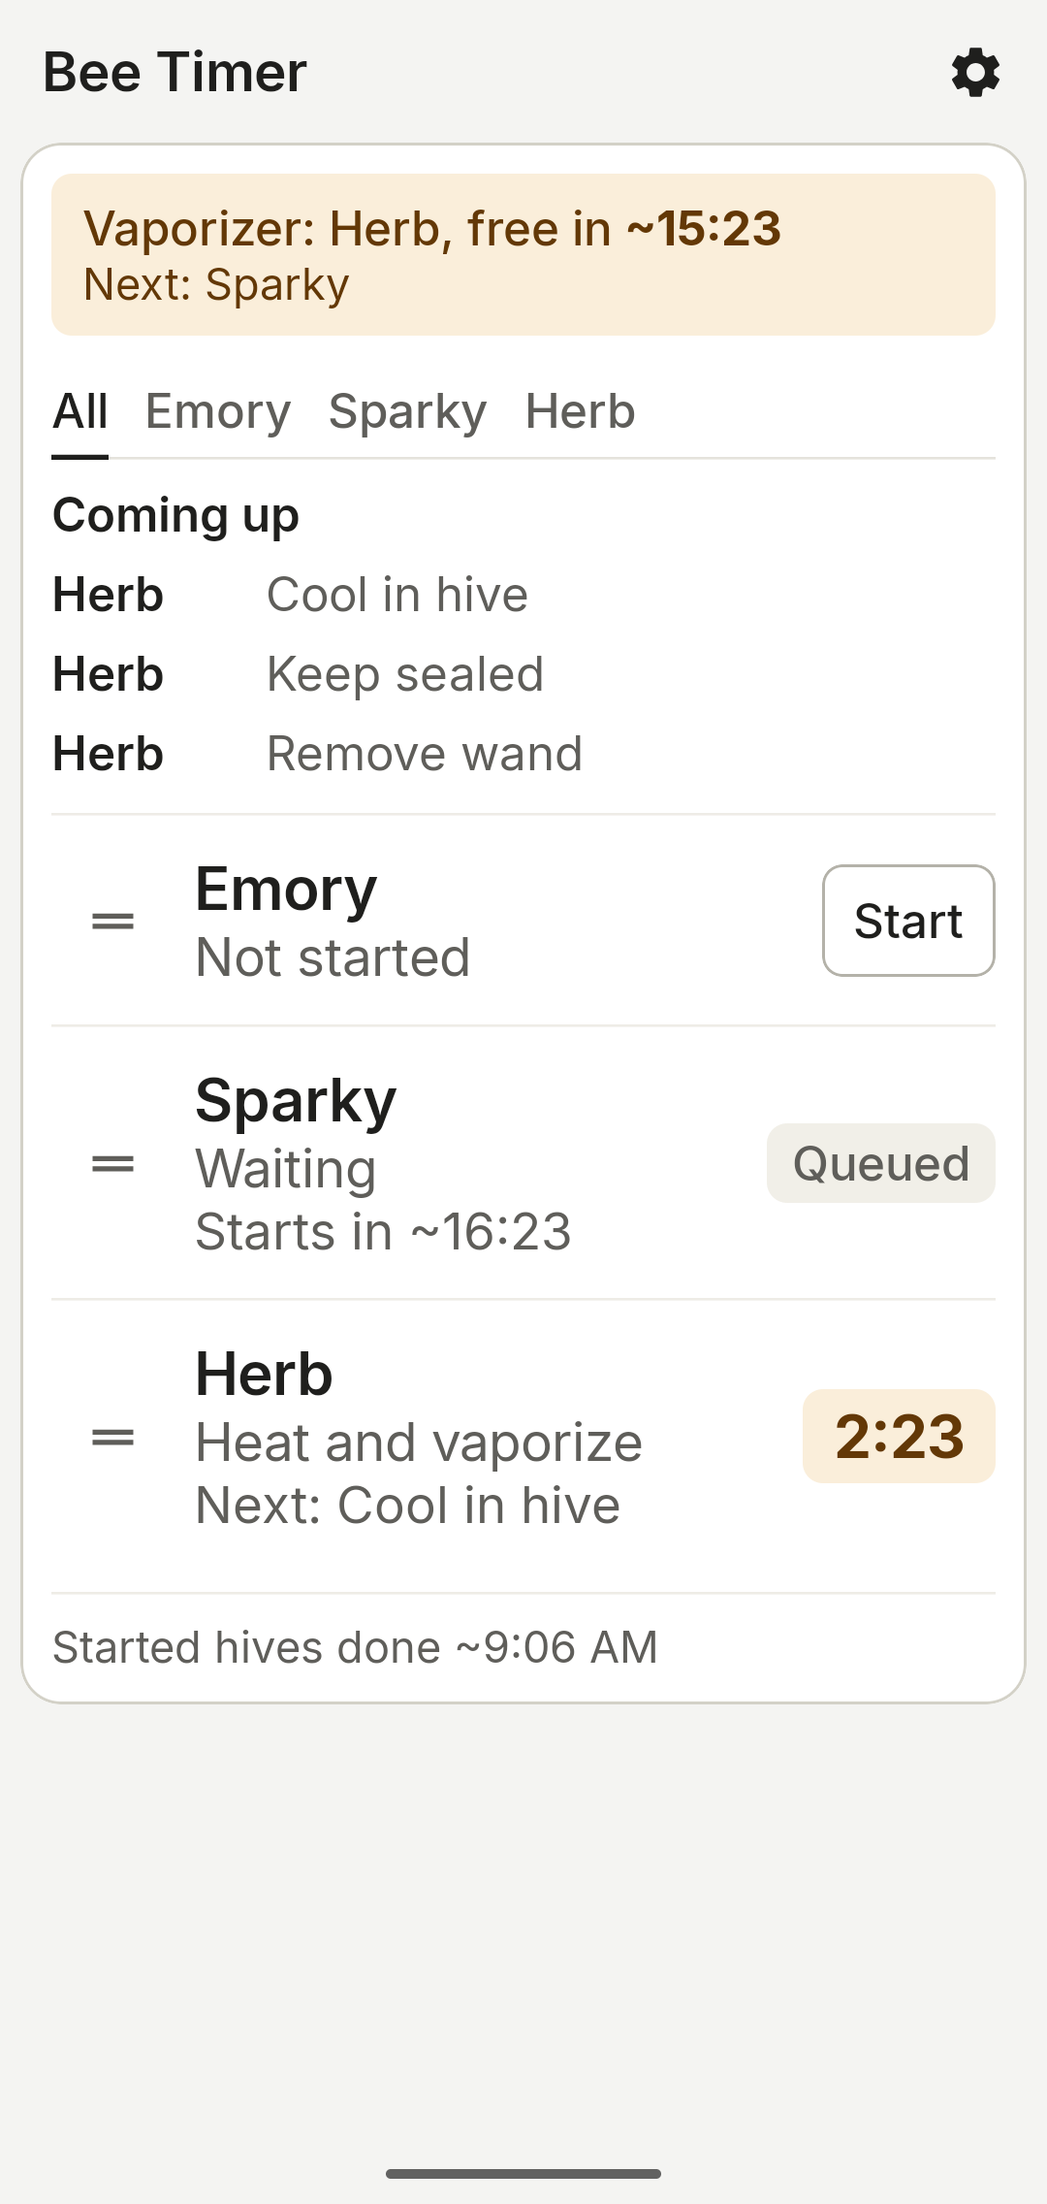
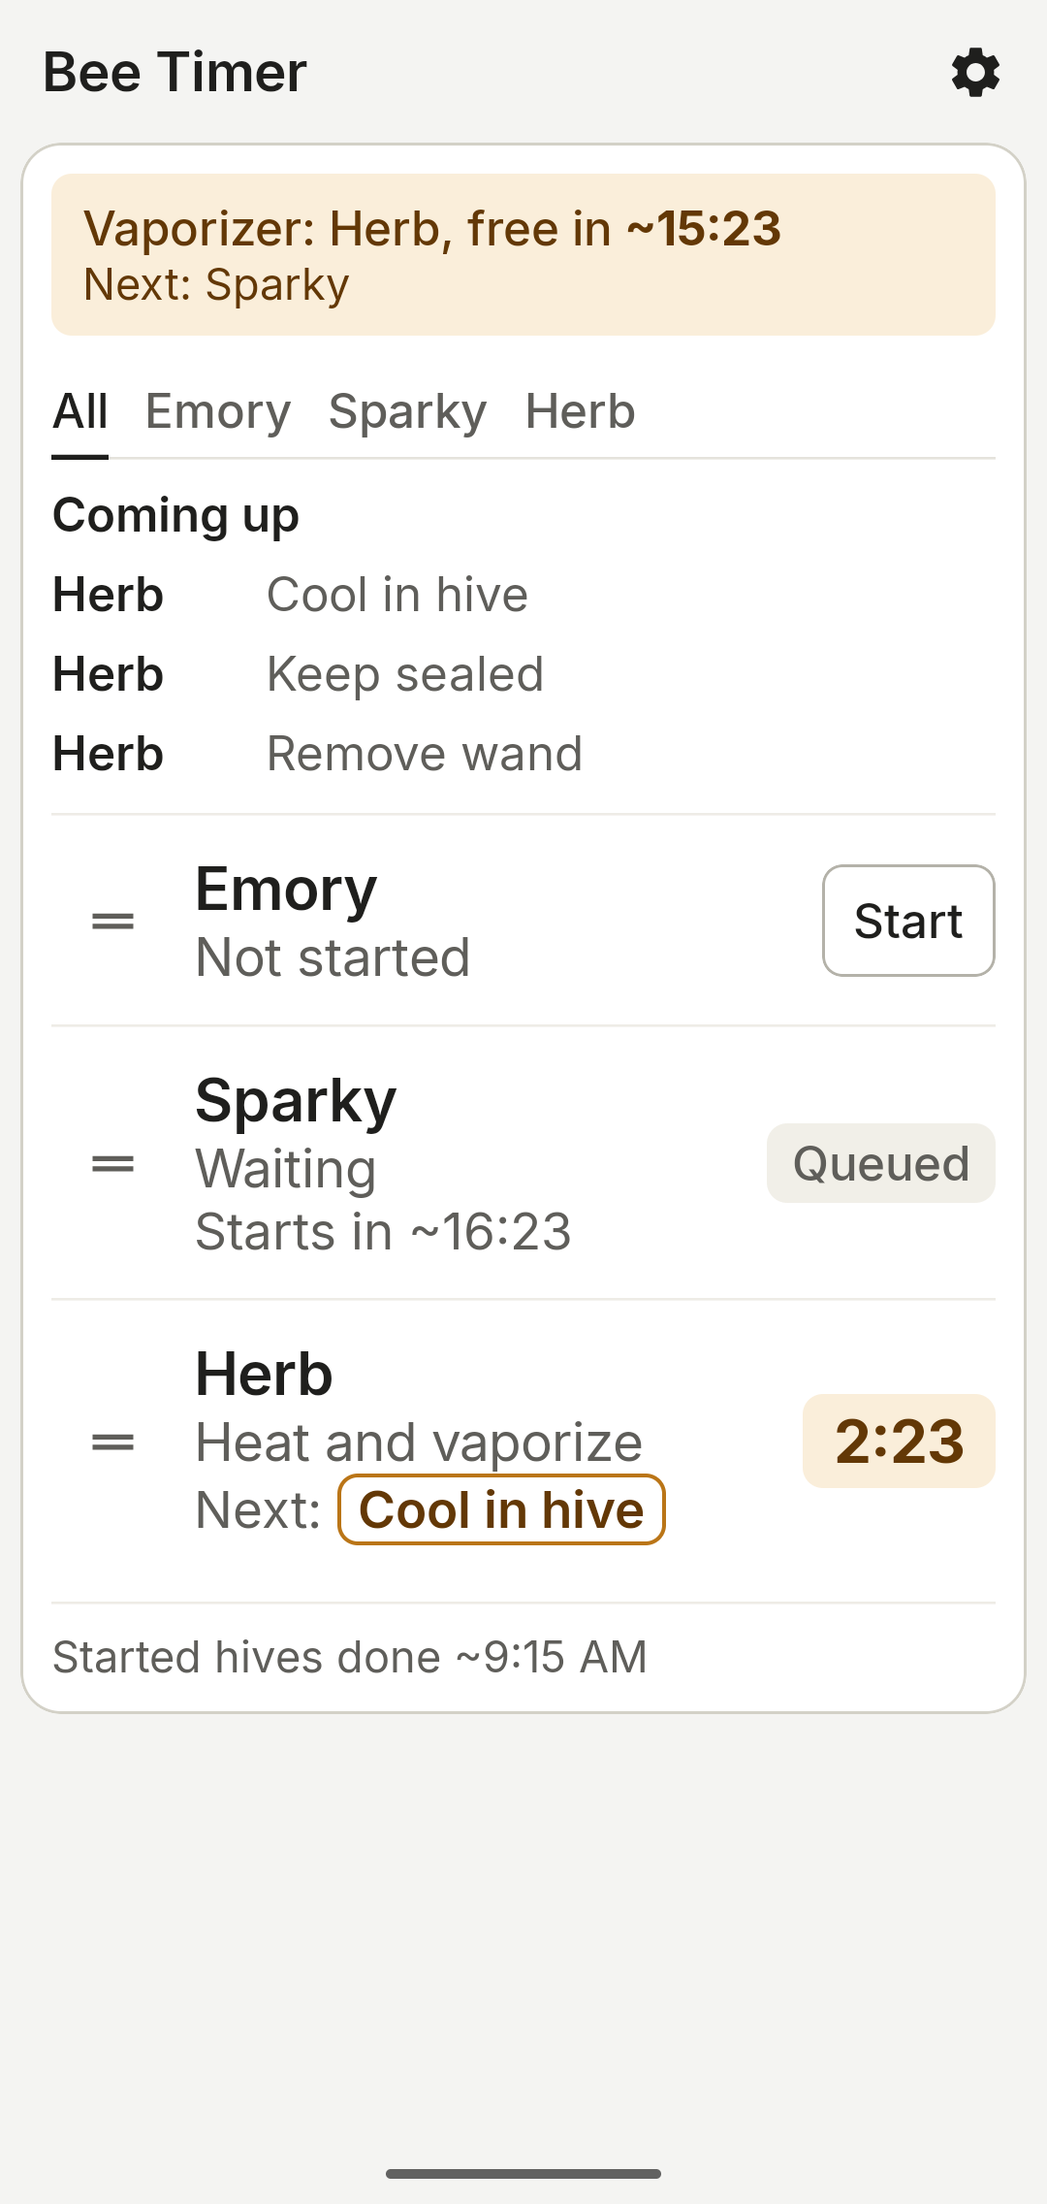
R8: next-step pill
Display only. On All tab hive rows, "Next:" stays secondary text and the
step name is an outlined pill (1.5 dp border, 8 dp corners, 16 sp
semibold, no fill): amber for a vaporizer step, teal for a passive one.
New tokens deviceBorder and passiveBorder in Theme.kt. The Hive tab has
no Next line, so it is unchanged. Docs and All tab screenshots updated.

diff --git a/app/src/main/java/io/github/mecheng70/beetimer/ui/MainScreen.kt b/app/src/main/java/io/github/mecheng70/beetimer/ui/MainScreen.kt
@@ -258,16 +258,23 @@ private fun AllTab(hives: List<Hive>, s: SchedulerState, forecast: Forecast, now
                 Column(Modifier.weight(1f)) {
                     Text(hive.label, style = AppType.rowHiveName, color = c.ink, maxLines = 1, overflow = TextOverflow.Ellipsis)
                     Text(subtitle(run), style = AppType.rowStep, color = c.inkMuted, maxLines = 1, overflow = TextOverflow.Ellipsis, modifier = Modifier.testTag("row-sub-${hive.label}"))
-                    val second = when {
+                    val next = plan?.next
+                    when {
                         run?.state == RunState.WAITING_FOR_DEVICE -> plan?.deviceStart?.let {
-                            if (it.at <= now) stringResource(R.string.hive_starts_now)
+                            val starts = if (it.at <= now) stringResource(R.string.hive_starts_now)
                             else stringResource(R.string.hive_starts_in, remaining(it.at, it.estimated, now, ""))
+                            Text(starts, style = AppType.rowNext, color = c.inkMuted, maxLines = 1, overflow = TextOverflow.Ellipsis)
                         }
-                        // The countdown chip already shows when the next step starts.
-                        run != null && run.isActive -> plan?.next?.let { stringResource(R.string.hive_next, it.stepName) }
-                        else -> null
+                        // No time here: the countdown chip already shows when the next step starts.
+                        run != null && run.isActive && next != null -> Row(
+                            verticalAlignment = Alignment.CenterVertically,
+                            horizontalArrangement = Arrangement.spacedBy(Dimens.PillGap),
+                            modifier = Modifier.testTag("row-next-${hive.label}"),
+                        ) {
+                            Text(stringResource(R.string.hive_next_label), style = AppType.rowNext, color = c.inkMuted, maxLines = 1)
+                            StepPill(next.stepName, next.deviceBound, Modifier.weight(1f, fill = false))
+                        }
                     }
-                    if (second != null) Text(second, style = AppType.rowNext, color = c.inkMuted, maxLines = 1, overflow = TextOverflow.Ellipsis)
                 }
                 Box(Modifier.testTag("row-action-${hive.label}")) {
                     RowAction(hive.id, run, s, now, onEvent = { app.send(it) })

diff --git a/app/src/main/java/io/github/mecheng70/beetimer/ui/theme/Theme.kt b/app/src/main/java/io/github/mecheng70/beetimer/ui/theme/Theme.kt
@@ -41,8 +41,12 @@ data class AppColors(
     val deviceBg: Color,
     val deviceFg: Color,
     val deviceStrong: Color,
+    /** Outline of a next-step pill for a vaporizer step. */
+    val deviceBorder: Color,
     val passiveBg: Color,
     val passiveFg: Color,
+    /** Outline of a next-step pill for a passive step. */
+    val passiveBorder: Color,
     val idleBg: Color,
     val idleFg: Color,
     val danger: Color,
@@ -64,8 +68,10 @@ private val Light = AppColors(
     deviceBg = Color(0xFFFAEEDA),
     deviceFg = Color(0xFF633806),
     deviceStrong = Color(0xFFFAC775),
+    deviceBorder = Color(0xFFBA7517),
     passiveBg = Color(0xFFE1F5EE),
     passiveFg = Color(0xFF085041),
+    passiveBorder = Color(0xFF1D9E75),
     idleBg = Color(0xFFF1EFE8),
     idleFg = Color(0xFF5F5E5A),
     danger = Color(0xFFA32D2D),
@@ -87,8 +93,10 @@ private val Dark = AppColors(
     deviceBg = Color(0xFF4A2D05),
     deviceFg = Color(0xFFFAEEDA),
     deviceStrong = Color(0xFF7A4A0C),
+    deviceBorder = Color(0xFFBA7517),
     passiveBg = Color(0xFF0B3A30),
     passiveFg = Color(0xFFA8E6D2),
+    passiveBorder = Color(0xFF1D9E75),
     idleBg = Color(0xFF2C2B27),
     idleFg = Color(0xFFB4B2A9),
     danger = Color(0xFFFF8A80),
@@ -132,6 +140,8 @@ object AppType {
     val rowHiveName = inter(20, 26, FontWeight.SemiBold)
     val rowStep = inter(17, 22)
     val rowNext = inter(16, 21)
+    /** Step name in the next-step pill. */
+    val stepPill = inter(16, 21, FontWeight.SemiBold)
     /** Countdown chips on the All tab rows: read at a glance in sun. */
     val timeChip = inter(20, 26, FontWeight.Bold)
     /** Device, Passive, Queued chips. */
@@ -174,6 +184,10 @@ object Dimens {
     val TimeChipMinHeight = 36.dp
     /** All tab hive rows, top and bottom. */
     val HiveRowPaddingV = 14.dp
+    val PillBorder = 1.5.dp
+    val PillPaddingH = 8.dp
+    val PillPaddingV = 2.dp
+    val PillGap = 6.dp
     val IconTouch = 48.dp
     val TopBarHeight = 56.dp
     val Icon = 24.dp

diff --git a/app/src/main/java/io/github/mecheng70/beetimer/ui/Common.kt b/app/src/main/java/io/github/mecheng70/beetimer/ui/Common.kt
@@ -4,6 +4,7 @@ import android.content.Context
 import androidx.compose.foundation.BorderStroke
 import androidx.compose.foundation.background
 import androidx.compose.foundation.border
+import androidx.compose.ui.text.style.TextOverflow
 import androidx.compose.foundation.clickable
 import androidx.compose.foundation.horizontalScroll
 import androidx.compose.foundation.layout.Arrangement
@@ -147,6 +148,24 @@ fun Chip(text: String, tone: Tone, modifier: Modifier = Modifier, kind: ChipKind
     ) {
         Text(text, style = if (time) AppType.timeChip else AppType.stateChip, color = fg, maxLines = 1)
     }
+}
+
+/** Outlined pill naming the next step: amber for a vaporizer step, teal for a passive one. No fill. */
+@Composable
+fun StepPill(text: String, deviceBound: Boolean, modifier: Modifier = Modifier) {
+    val c = BeeTheme.colors
+    val border = if (deviceBound) c.deviceBorder else c.passiveBorder
+    val fg = if (deviceBound) c.deviceFg else c.passiveFg
+    Text(
+        text,
+        style = AppType.stepPill,
+        color = fg,
+        maxLines = 1,
+        overflow = TextOverflow.Ellipsis,
+        modifier = modifier
+            .border(Dimens.PillBorder, border, RoundedCornerShape(Dimens.SmallCorner))
+            .padding(horizontal = Dimens.PillPaddingH, vertical = Dimens.PillPaddingV),
+    )
 }
 
 /** Icon with a 48 dp touch target. */

diff --git a/docs/design/TECH-DESIGN.md b/docs/design/TECH-DESIGN.md
@@ -251,7 +251,7 @@ The mockups are the spec. Side-by-side captures: `docs/screenshots/` (mockup-*.p
 - **Font.** Inter (regular, medium, semibold, bold) bundled in `res/font`, licence in `assets/licenses/Inter-OFL.txt`, used for every text style so weights render the same on OnePlus and other phones.
 - **Chips.** Countdown chips (All tab rows) 20 sp bold, 12 x 4 dp padding, at least 36 dp tall; state chips (Device, Passive, Queued) 14 sp, 10 x 4 dp, at least 28 dp tall.
 - **Main screen.** Top bar: "Bee Timer" and a gear icon (48 dp, "Settings"). Low alarm volume banner ("Alarm volume is low", one line, with a Raise button to sound settings) while a run is active and the alarm stream is under 50%. Then one white card: vaporizer bar, tab strip, and the All tab or a Hive tab. The page scrolls. Compose test tags are exposed as resource IDs for Maestro (`row-<id>`, `row-action-<id>`, `row-sub-<id>`, `drag-<id>`, `alarm-done` and so on).
-- **All tab = planning view.** Vaporizer bar on one line (ellipsized, never wraps) with "Next: Sparky" under it (queue head, else the next not-started hive in list order). "Coming up": the next 3 step starts across hives from `Planner.forecast` (`comingUp(COMING_UP_COUNT)` in `MainScreen.kt`), in time order, as a fixed-width hive column and the action; no times. Hive rows (14 dp top and bottom padding) have a drag handle (long-press), the name, current step, a countdown chip or Start/Done button (44 dp), and a "Next" line with no time ("Next: Cool in hive"; the chip already shows it). Queued rows show "Waiting" and "Starts in ~16:24". Time remaining shows in the chip, "Starts in ~15:09", and the vaporizer bar shows "Vaporizer: Herb, free in ~15:09". "~" means it depends on a manual tap. Projected times are computed only when the state changes; the countdowns tick from them, and a passed one shows "now". Only the footer is a clock time, "Started hives done ~1:05 PM", in the phone's 12/24-hour format. Not-started hives are not projected.
+- **All tab = planning view.** Vaporizer bar on one line (ellipsized, never wraps) with "Next: Sparky" under it (queue head, else the next not-started hive in list order). "Coming up": the next 3 step starts across hives from `Planner.forecast` (`comingUp(COMING_UP_COUNT)` in `MainScreen.kt`), in time order, as a fixed-width hive column and the action; no times. Hive rows (14 dp top and bottom padding) have a drag handle (long-press), the name, current step, a countdown chip or Start/Done button (44 dp), and a "Next" line with no time ("Next: Cool in hive"; the chip already shows it). The step name there is a `StepPill`: outlined, no fill, 16 sp semibold, 1.5 dp border, 8 x 2 dp padding, colored by the step's vaporizer use (`deviceBorder` #BA7517 / `deviceFg`, `passiveBorder` #1D9E75 / `passiveFg`). Queued rows show "Waiting" and "Starts in ~16:24". Time remaining shows in the chip, "Starts in ~15:09", and the vaporizer bar shows "Vaporizer: Herb, free in ~15:09". "~" means it depends on a manual tap. Projected times are computed only when the state changes; the countdowns tick from them, and a passed one shows "now". Only the footer is a clock time, "Started hives done ~1:05 PM", in the phone's 12/24-hour format. Not-started hives are not projected.
 - **Planner** (`scheduler/Planner.kt`, pure): runs the real reducer forward with a simulated person (timers on time, timed-to-timed acknowledged at once, manual steps 1 min, handoff 1 min, both divided by `timeScale`; not-started hives are not projected). Exposes `deviceFreeAt` for the vaporizer bar. Tested in `PlannerTest`; the firm rule is also checked by `Invariants` on every commit in debug builds.
 - **Wording.** UI copy says "Vaporizer" (the gun type has no wand); preset step names keep "wand".
 - **Cancel** removes the run, so the hive is Not started with a Start button again (no Cancelled state).

diff --git a/HANDOFF.md b/HANDOFF.md
@@ -5,14 +5,14 @@ Update this file at the end of each round.
 
 ## State
 
-- **Version:** 0.1.0-alpha, debug-signed. Last code change: R7 (All-tab GUI cleanup) on `master`.
+- **Version:** 0.1.0-alpha, debug-signed. Last code change: R8 (next-step pill) on `master`.
 - **Remote:** none yet. The repo has never been pushed; GitHub is planned as `MechEng70/beetimer`.
-- **Phone:** the R7 build is installed on Jason's phone (OnePlus CPH2583, Android 16, OxygenOS, font
+- **Phone:** the R8 build is installed on Jason's phone (OnePlus CPH2583, Android 16, OxygenOS, font
   scale 1.15).
 - **Gate:** `scripts/check.sh` passes, 91 tests.
 - **End to end:** 12 of 13 emulator runs pass, with 0 invariant errors (`docs/e2e/REPORT.md`). The one
   failure is a 60x timing limit, explained below.
-- **Done:** everything in `docs/design/TASKS.md` up to R7. R7 was display only, so the E2E suite was not re-run.
+- **Done:** everything in `docs/design/TASKS.md` up to R8. R7 and R8 were display only, so the E2E suite was not re-run.
 - **Waiting on:** nothing assigned. The next work is Jason's call.
 
 ## Read first
@@ -20,7 +20,7 @@ Update this file at the end of each round.
 1. `CLAUDE.md`: the rules for this repo (stack, KMP-ready scheduler, strings and theme, Room, copy).
 2. `SPEC.md` section 1: product decisions. They win over the original brief below them.
 3. `docs/design/TECH-DESIGN.md`: architecture, scheduler rules, alarm layer, UI, tests.
-4. `docs/design/TASKS.md`: task history (T1 to T10, review rounds R1 to R7), T11, open checks, backlog.
+4. `docs/design/TASKS.md`: task history (T1 to T10, review rounds R1 to R8), T11, open checks, backlog.
 5. `docs/mockups/varroa-timer-mockups.html` and `docs/screenshots/`: how it must look, and how it looks now.
 
 ## Commands
@@ -56,8 +56,10 @@ Toolchain setup: `docs/DEVELOPING.md`. E2E details: `docs/e2e/README.md`.
 ## Open items
 
 Needs Jason:
-- **R7 on the phone:** look at the All tab outdoors (see TASKS.md R7). Sizes are tokens in `Theme.kt`
-  (`AppType.rowHiveName`, `rowStep`, `rowNext`, `timeChip`, `Dimens.TimeChip*`, `HiveRowPaddingV`).
+- **R7 and R8 on the phone:** look at the All tab outdoors (see TASKS.md R7, R8). Sizes and colors are tokens
+  in `Theme.kt` (`AppType.rowHiveName`, `rowStep`, `rowNext`, `stepPill`, `timeChip`, `Dimens.TimeChip*`,
+  `Pill*`, `HiveRowPaddingV`, `deviceBorder`, `passiveBorder`). The screenshots only show an amber pill;
+  check a teal one (a passive next step, like Unseal) on the phone.
 - **Themed icons on the phone:** turn them on (Settings, Wallpapers & style, Icons, Themed icons) and look at
   the home screen. They're verified on the emulator only.
 - **Push to GitHub:** create the remote and push. Then upload `docs/icon/icon-1024.png` as the social preview
@@ -117,6 +119,8 @@ Build and tests:
   dispatcher-order dependent, and the in-app alarm closed to the launcher (`AlarmActivityCloseTest`).
 - **Coming up count:** the All tab passes `COMING_UP_COUNT` (3) to `Forecast.comingUp`; the planner's
   default stays 5, so the planner and its test are untouched.
+- **Emulator keyboard:** Gboard on the emulator can pop a "Try out your stylus" tutorial over a text field,
+  and then `rename_hive` in `screens.sh` fails with `Argument expected after "tap"`. Tap Cancel on it and re-run.
 - **Icon render:** `IconRenderTest` needs Robolectric `GraphicsMode.NATIVE`.
 
 E2E harness:

diff --git a/docs/screenshots/README.md b/docs/screenshots/README.md
@@ -1,13 +1,13 @@
 # UI screenshots
 
-Captured 2026-11-21 on the emulator (`beetimer-api36`, Android 16, Pixel 6 size, 411 dp wide, font scale 1.15, light theme) from the current debug build by `scripts/e2e/screens.sh`. `app-1-all.png` and `app-1-all-large.png` were re-captured 2026-11-22 for R7. The status bar is cropped. The `mockup-*.png` files are the approved mockups rendered from `docs/mockups/varroa-timer-mockups.html`.
+Captured 2026-11-21 on the emulator (`beetimer-api36`, Android 16, Pixel 6 size, 411 dp wide, font scale 1.15, light theme) from the current debug build by `scripts/e2e/screens.sh`. `app-1-all.png` and `app-1-all-large.png` were re-captured 2026-11-22 for R8. The status bar is cropped. The `mockup-*.png` files are the approved mockups rendered from `docs/mockups/varroa-timer-mockups.html`.
 
 Scene: Herb holds the vaporizer (Heat and vaporize, real 1x timing), Sparky is queued, Emory is not started.
 
 | File | What it shows |
 |---|---|
-| `app-1-all.png` | All tab (R7): "Vaporizer: Herb, free in ~15:25"; Coming up shows the next 3 events, hive and action only, in a fixed-width hive column; larger hive rows (name 20 sp, step 17, Next 16, chip 20 bold); Herb "Next: Cool in hive" with the 2:25 chip; Sparky "Waiting" and "Starts in ~16:25"; footer clock in 12-hour format. |
-| `app-1-all-large.png` | Same at font scale 1.3: nothing clips, wraps or overlaps, and the step and Next lines stay clear of the chip. |
+| `app-1-all.png` | All tab (R8): "Vaporizer: Herb, free in ~15:26"; Coming up shows the next 3 events, hive and action only, in a fixed-width hive column; larger hive rows (name 20 sp, step 17, Next 16, chip 20 bold); Herb "Next:" with "Cool in hive" in an amber outlined pill (a vaporizer step) and the 2:26 chip; Sparky "Waiting" and "Starts in ~16:26"; footer clock in 12-hour format. |
+| `app-1-all-large.png` | Same at font scale 1.3: nothing clips, wraps or overlaps, and the step line and Next pill stay clear of the chip. |
 | `app-2-hive.png` | Herb's tab with the 7-step pan wand (wand stays in): Device from Load dose through Remove wand. |
 | `app-3-alarm.png` | Alarm screen: Herb, "Heat and vaporize finished", Next "Cool in hive", "2:00 timer starts when you tap Done". |
 | `app-4-template.png` | Step editor, wand stays in: "takes the vaporizer" on Load dose, "releases the vaporizer" on Remove wand, the "Vaporizer frees here" divider, display-only chips. |

diff --git a/SPEC.md b/SPEC.md
@@ -33,7 +33,7 @@ Where section 1 and the original brief (section 2) disagree, section 1 wins.
 | Queue | FIFO. Handoff is manual: the head is told "Vaporizer free: Herb is next" and waits for Start. Skip to back of queue is kept. Remove from queue resets that hive's run. |
 | Cancel | Cancel run returns the hive to Not started with a Start button (no Cancelled state). |
 | Vaporizer bar | "Vaporizer: free" or "Vaporizer: Herb, free in ~15:09", and "Next: Sparky". |
-| All tab | Planning view. "Coming up" lists the next 3 step starts across hives in time order, hive name and action only (no times; the rows and the vaporizer bar carry them). Each row shows the action you can take now (Start, Done) or a countdown or status chip, and "Next: <step>" with no time (the chip shows it). Queued rows show "Starts in ~16:24". Rows are sized to read outdoors: hive name 20 sp, current step 17 sp, Next line 16 sp, countdown chip 20 sp bold. Not-started hives are not projected. Footer "Started hives done ~1:05 PM" in the phone's 12/24-hour format. Projections are recomputed only when something happens; countdowns tick from them. |
+| All tab | Planning view. "Coming up" lists the next 3 step starts across hives in time order, hive name and action only (no times; the rows and the vaporizer bar carry them). Each row shows the action you can take now (Start, Done) or a countdown or status chip, and "Next: <step>" with no time (the chip shows it). The step name is an outlined pill (no fill, 16 sp semibold, 1.5 dp border, 8 dp corners): amber #BA7517 border and #633806 text for a vaporizer step, teal #1D9E75 and #085041 for a passive one, so the countdown chip stays the strongest element. Queued rows show "Starts in ~16:24". Rows are sized to read outdoors: hive name 20 sp, current step 17 sp, Next line 16 sp, countdown chip 20 sp bold. Not-started hives are not projected. Footer "Started hives done ~1:05 PM" in the phone's 12/24-hour format. Projections are recomputed only when something happens; countdowns tick from them. |
 | Theme | System, Light or Dark (default System). Alarm screen is dark amber in both. Inter font bundled. |
 | App icon | Stopwatch bee, adaptive icon with a monochrome layer for themed icons (`docs/icon/`). |
 | Quality gate (alpha) | Unit tests plus Android lint (`scripts/check.sh`), plus the emulator E2E suite for behavior changes. Semgrep, Snyk, ktlint and detekt are deferred. |

diff --git a/docs/design/TASKS.md b/docs/design/TASKS.md
@@ -88,6 +88,9 @@ Each round was a review from Jason with an explicit list. TECH-DESIGN and SPEC s
 ## R7 [x] All-tab GUI cleanup
 - Display only. Coming up: no time column, next 3 events, hive and action. Hive rows: "Next: Unseal" without "in m:ss"; larger type for outdoors (name 20 sp, step 17, Next 16, countdown chip 20 bold, 36 dp tall, 12 dp padding; rows 14 dp padding). No scheduler, planner, alarm or data changes. No E2E flow read the removed text.
 
+## R8 [x] Next-step pill
+- Display only. All tab hive rows: "Next:" stays secondary text; the step name is an outlined pill, amber for a vaporizer step, teal for a passive one, no fill. Tokens `deviceBorder` and `passiveBorder` in `Theme.kt`. The Hive tab has no Next line, so nothing changed there.
+
 ## After alpha
 
 ## T11 [ ] Release keystore before the first public GitHub Release

diff --git a/docs/design/WBS.md b/docs/design/WBS.md
@@ -23,7 +23,7 @@ Bee Timer alpha
                                           Total ~ 8.5 h
 ```
 
-After T10 (done; see TASKS.md R1 to R7):
+After T10 (done; see TASKS.md R1 to R8):
 ```
 6. Review rounds
    6.1 R1 UI rework to mockups, alarm stream
@@ -33,6 +33,7 @@ After T10 (done; see TASKS.md R1 to R7):
    6.5 R5 Take/release markers, planner fix, E2E suite
    6.6 R6 Foreground alarms, snackbar, icon
    6.7 R7 All-tab GUI cleanup
+   6.8 R8 Next-step pill
 7. Before first public release
    7.1 T11 Release keystore
 ```
